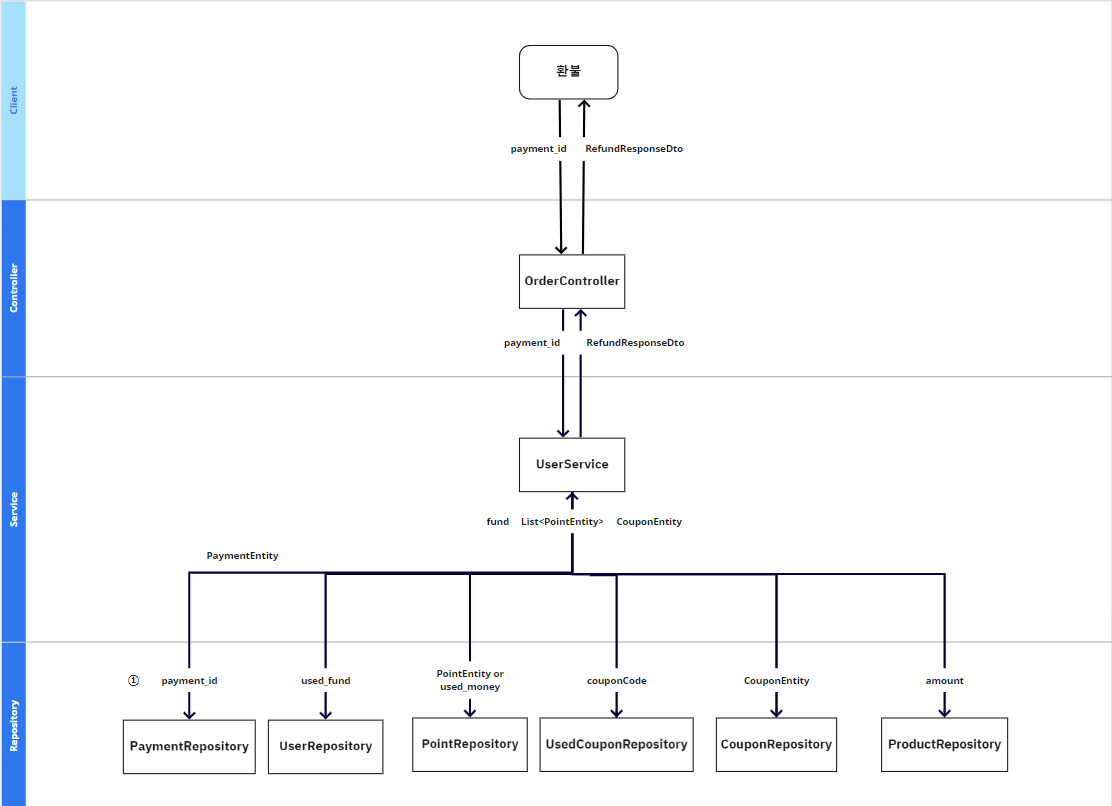
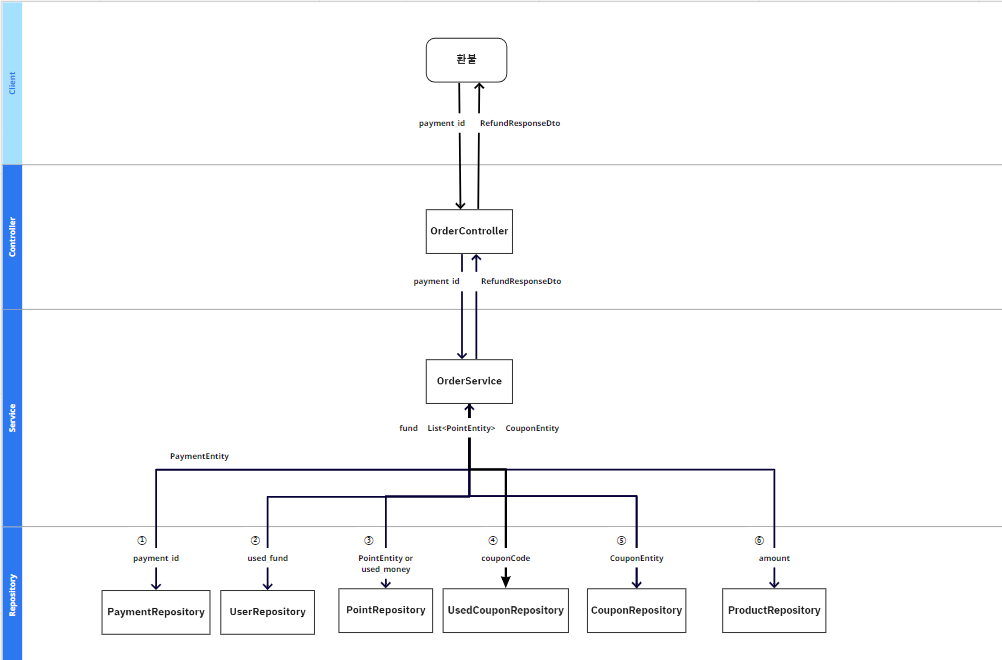
feat : 필요한 패키지 및 클래스 생성
fix : ER-Diagram, Data Process Diagram 수정

fix : ER-Diagram 수정

diff --git a/daoushop/src/main/java/com/daou/daoushop/domain/userMoney/UserMoneyEntity.java b/daoushop/src/main/java/com/daou/daoushop/domain/userMoney/UserMoneyEntity.java
@@ -1,0 +1,18 @@
+package com.daou.daoushop.domain.userMoney;
+
+import javax.persistence.Entity;
+import javax.persistence.GeneratedValue;
+import javax.persistence.Id;
+
+import lombok.Getter;
+import lombok.NoArgsConstructor;
+
+@NoArgsConstructor
+@Getter
+@Entity(name="user_money")
+public class UserMoneyEntity {
+	
+	@Id
+	@GeneratedValue
+	private Integer userMoneyId;
+}

diff --git a/daoushop/src/main/java/com/daou/daoushop/domain/userMoney/UserMoneyRepository.java b/daoushop/src/main/java/com/daou/daoushop/domain/userMoney/UserMoneyRepository.java
@@ -1,0 +1,7 @@
+package com.daou.daoushop.domain.userMoney;
+
+import org.springframework.data.jpa.repository.JpaRepository;
+
+public interface UserMoneyRepository extends JpaRepository<UserMoneyEntity, Integer> {
+
+}

diff --git a/daoushop/src/main/java/com/daou/daoushop/domain/usedCoupon/UsedCouponRepository.java b/daoushop/src/main/java/com/daou/daoushop/domain/usedCoupon/UsedCouponRepository.java
@@ -1,0 +1,5 @@
+package com.daou.daoushop.domain.usedCoupon;
+
+public interface UsedCouponRepository {
+
+}

diff --git a/daoushop/src/main/java/com/daou/daoushop/domain/usedPoint/UsedPointRepository.java b/daoushop/src/main/java/com/daou/daoushop/domain/usedPoint/UsedPointRepository.java
@@ -1,0 +1,5 @@
+package com.daou.daoushop.domain.usedPoint;
+
+public interface UsedPointRepository {
+
+}

diff --git a/daoushop/src/main/java/com/daou/daoushop/domain/payment/PaymentRepository.java b/daoushop/src/main/java/com/daou/daoushop/domain/payment/PaymentRepository.java
@@ -1,0 +1,5 @@
+package com.daou.daoushop.domain.payment;
+
+public interface PaymentRepository {
+
+}

diff --git a/daoushop/src/main/java/com/daou/daoushop/domain/product/ProductRepository.java b/daoushop/src/main/java/com/daou/daoushop/domain/product/ProductRepository.java
@@ -1,0 +1,5 @@
+package com.daou.daoushop.domain.product;
+
+public interface ProductRepository {
+
+}

diff --git a/daoushop/src/main/java/com/daou/daoushop/domain/usedCoupon/UsedCouponEntity.java b/daoushop/src/main/java/com/daou/daoushop/domain/usedCoupon/UsedCouponEntity.java
@@ -1,0 +1,5 @@
+package com.daou.daoushop.domain.usedCoupon;
+
+public class UsedCouponEntity {
+
+}

diff --git a/daoushop/src/main/java/com/daou/daoushop/domain/point/PointRepository.java b/daoushop/src/main/java/com/daou/daoushop/domain/point/PointRepository.java
@@ -1,0 +1,5 @@
+package com.daou.daoushop.domain.point;
+
+public interface PointRepository {
+
+}

diff --git a/daoushop/src/main/java/com/daou/daoushop/domain/usedPoint/UsedPointEntity.java b/daoushop/src/main/java/com/daou/daoushop/domain/usedPoint/UsedPointEntity.java
@@ -1,0 +1,5 @@
+package com.daou.daoushop.domain.usedPoint;
+
+public class UsedPointEntity {
+
+}

diff --git a/daoushop/src/main/java/com/daou/daoushop/domain/user/UserRepository.java b/daoushop/src/main/java/com/daou/daoushop/domain/user/UserRepository.java
@@ -1,0 +1,5 @@
+package com.daou.daoushop.domain.user;
+
+public interface UserRepository {
+
+}

diff --git a/daoushop/src/main/java/com/daou/daoushop/domain/payment/PaymentEntity.java b/daoushop/src/main/java/com/daou/daoushop/domain/payment/PaymentEntity.java
@@ -1,0 +1,5 @@
+package com.daou.daoushop.domain.payment;
+
+public class PaymentEntity {
+
+}

diff --git a/daoushop/src/main/java/com/daou/daoushop/domain/product/ProductEntity.java b/daoushop/src/main/java/com/daou/daoushop/domain/product/ProductEntity.java
@@ -1,0 +1,5 @@
+package com.daou.daoushop.domain.product;
+
+public class ProductEntity {
+
+}
